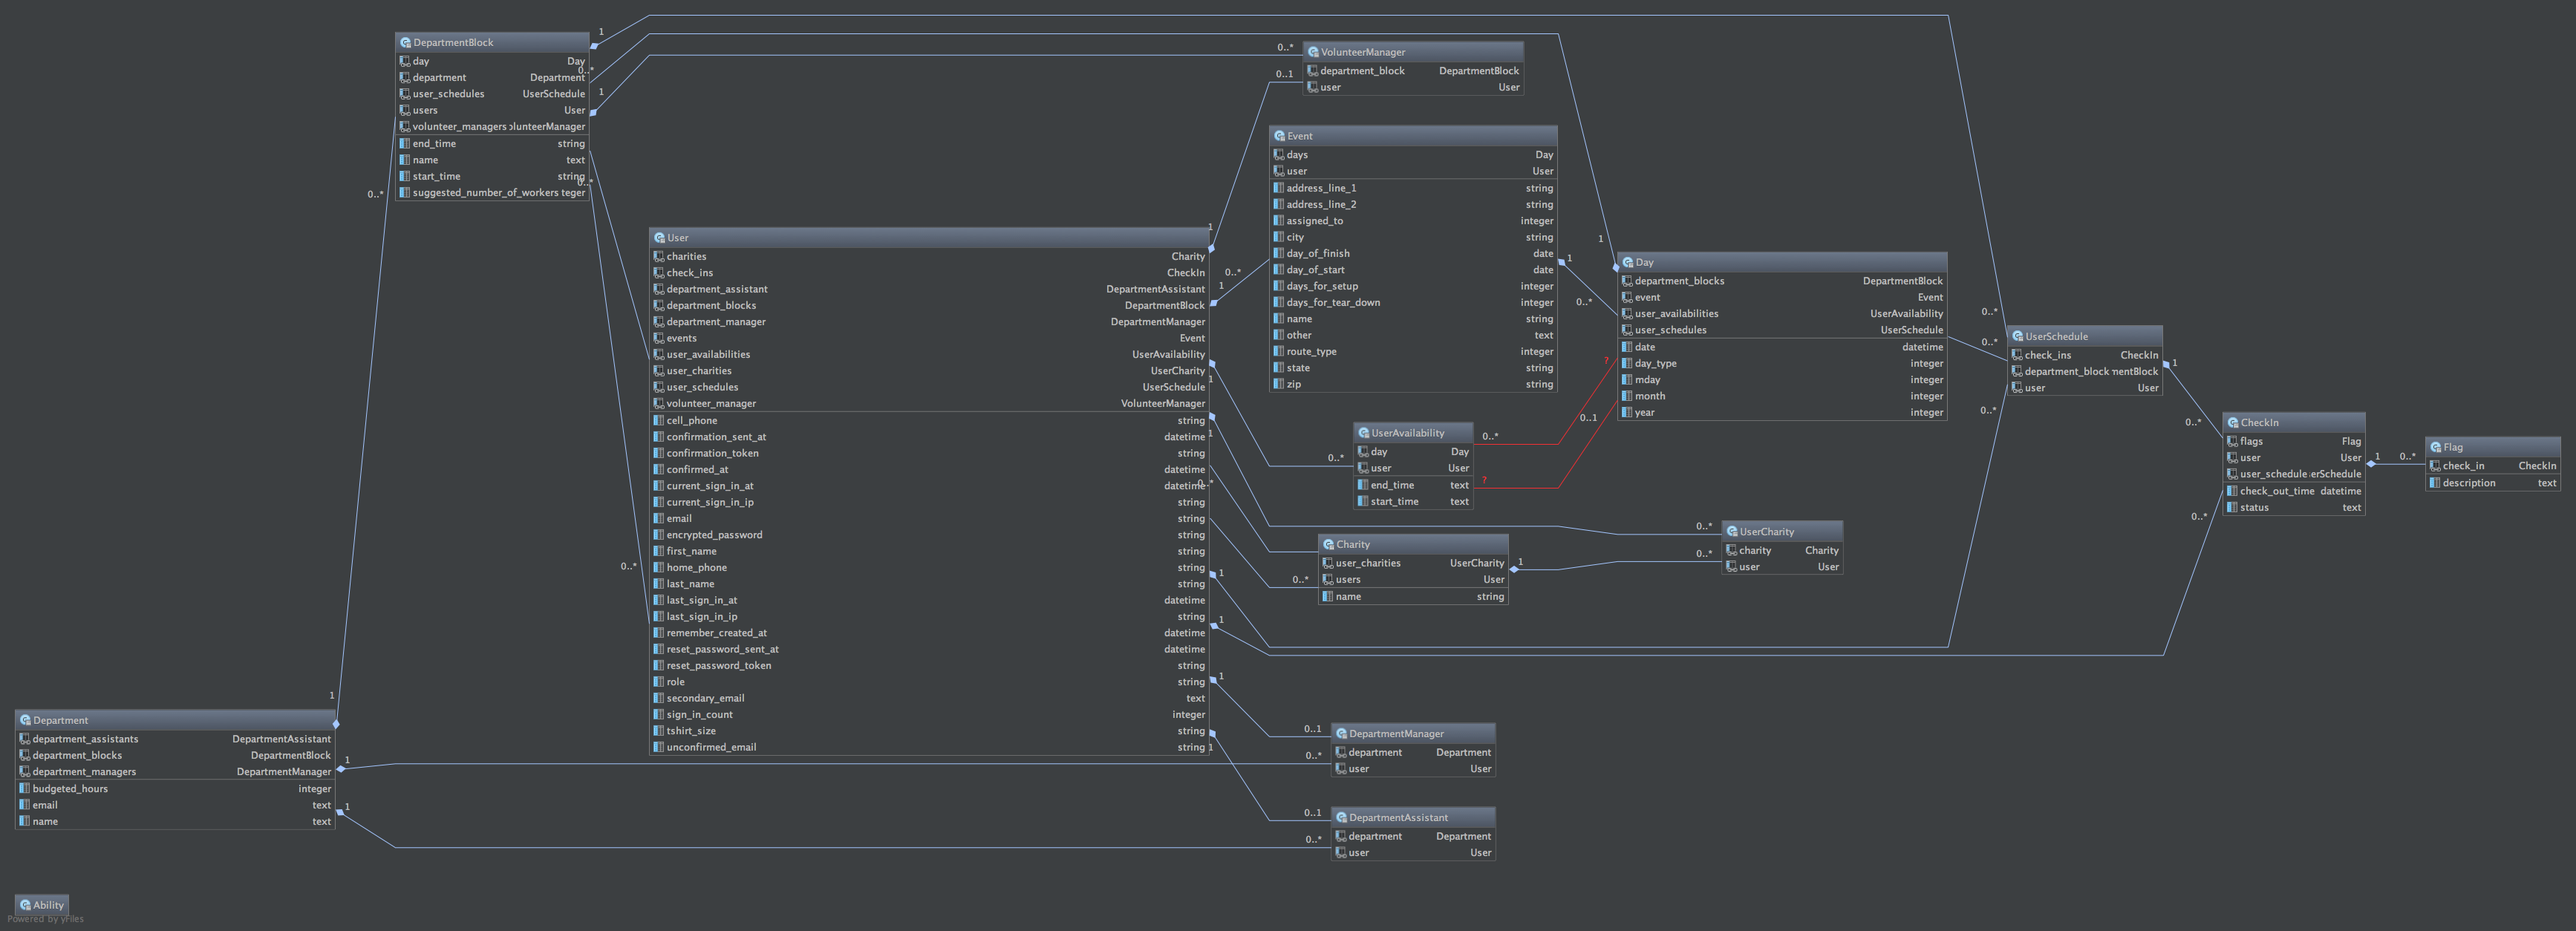
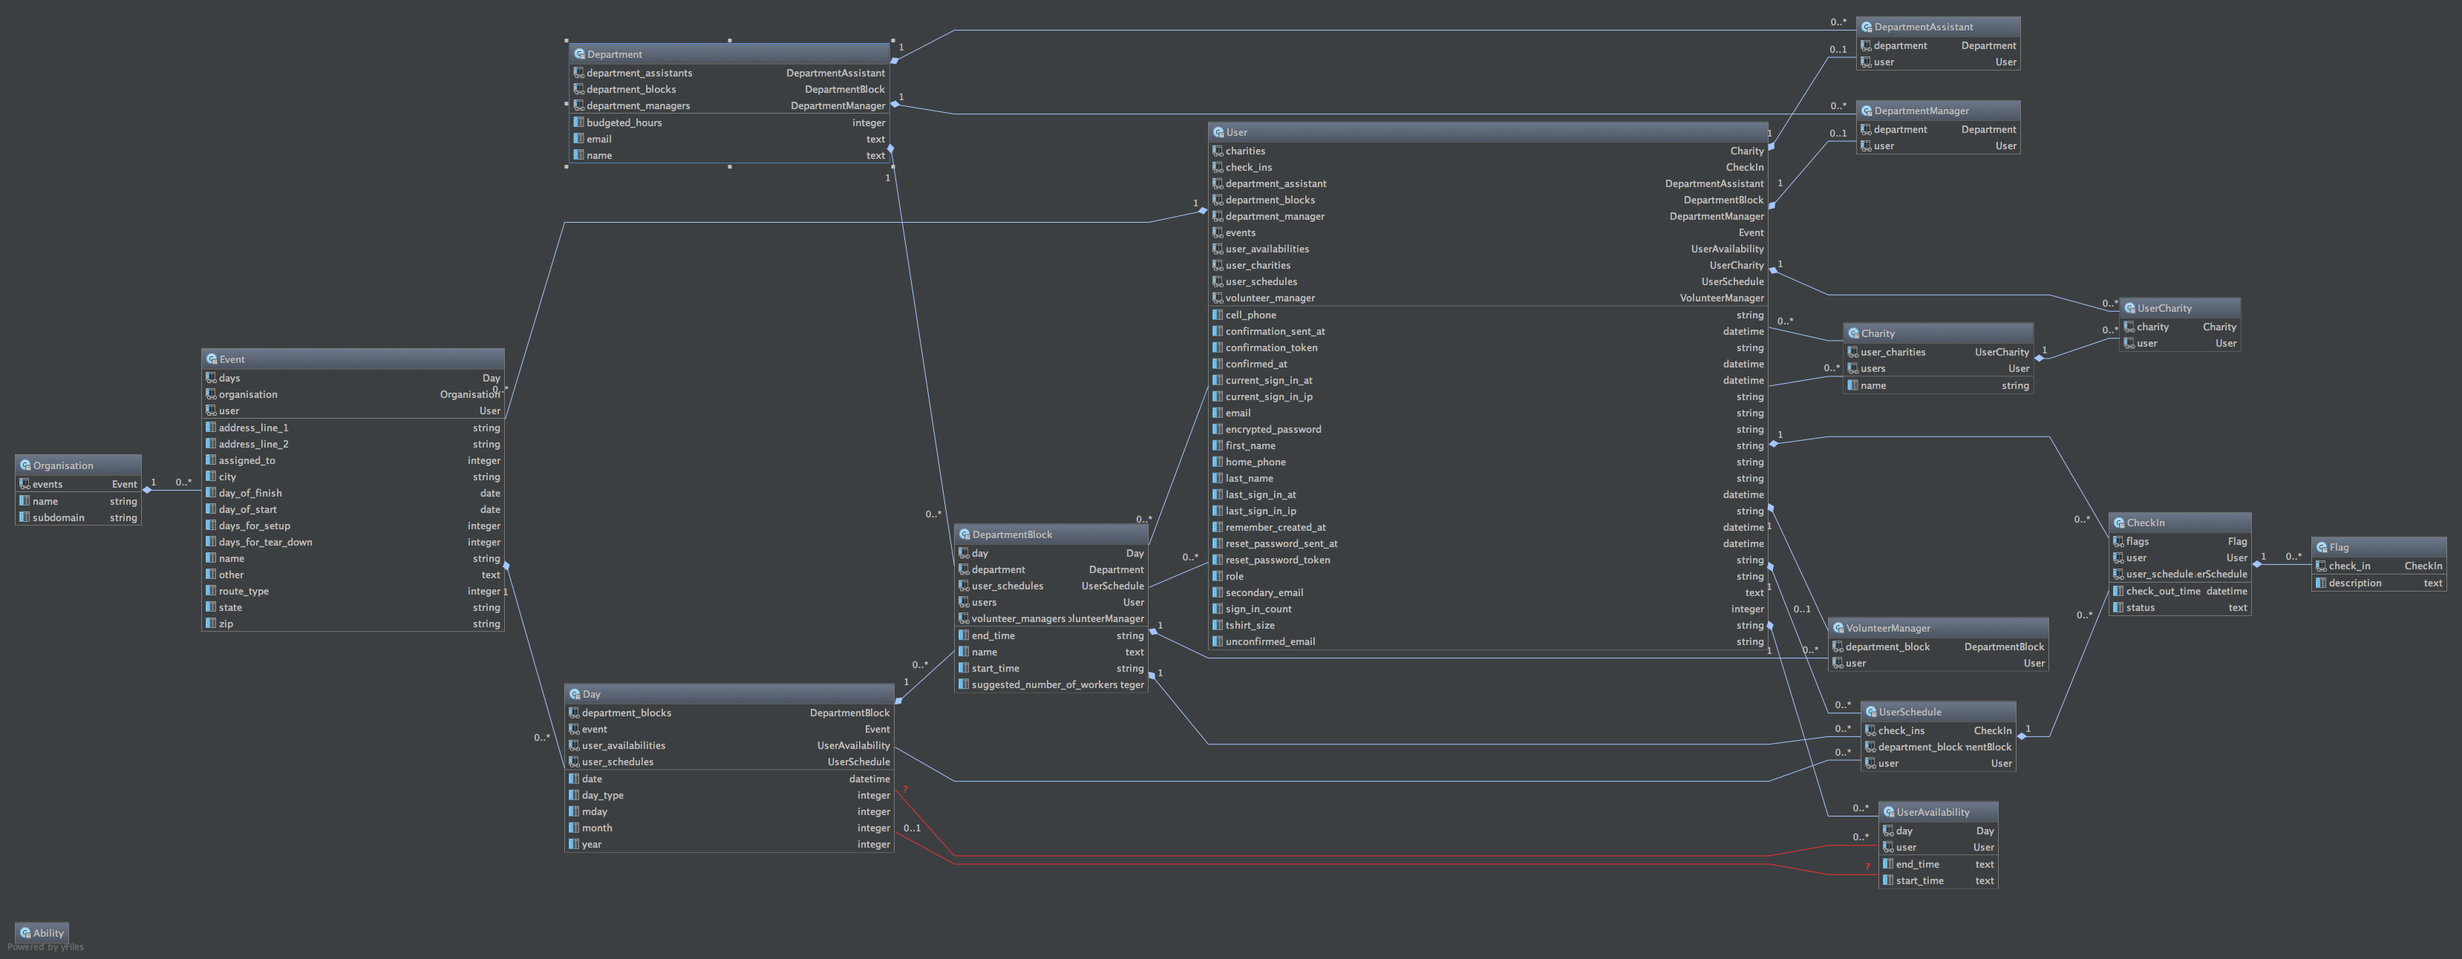
AG Added ability organization to create it's own subdomain

diff --git a/config/routes.rb b/config/routes.rb
@@ -1,5 +1,4 @@
 VolunteerTracker::Application.routes.draw do
-  root :to => 'dashboard#index'
 
   # PUBLIC FACING
   resources :departments, :only => [:index,:show]
@@ -28,6 +27,10 @@ VolunteerTracker::Application.routes.draw do
     resources :department_assistants
     resources :events
     resources :organisations
+  end
+
+  constraints(Subdomain) do
+    match '/' => 'organisations#show', as: :organisation_root
   end
 
   resources :dashboard, :only => [:index, :registration_complete]
@@ -72,63 +75,6 @@ VolunteerTracker::Application.routes.draw do
     match 'department_blocks/:id/copy/' => "department_blocks#copy"
     match 'departments/:id/export/:year/:month/:day' => "department_blocks#export"
     match 'departments/:id/schedule/:year/:month/:day' => "departments#schedule"
-    
   end
-
-  # The priority is based upon order of creation:
-  # first created -> highest priority.
-
-  # Sample of regular route:
-  #   match 'products/:id' => 'catalog#view'
-  # Keep in mind you can assign values other than :controller and :action
-
-  # Sample of named route:
-  #   match 'products/:id/purchase' => 'catalog#purchase', :as => :purchase
-  # This route can be invoked with purchase_url(:id => product.id)
-
-  # Sample resource route (maps HTTP verbs to controller actions automatically):
-  #   resources :products
-
-  # Sample resource route with options:
-  #   resources :products do
-  #     member do
-  #       get 'short'
-  #       post 'toggle'
-  #     end
-  #
-  #     collection do
-  #       get 'sold'
-  #     end
-  #   end
-
-  # Sample resource route with sub-resources:
-  #   resources :products do
-  #     resources :comments, :sales
-  #     resource :seller
-  #   end
-
-  # Sample resource route with more complex sub-resources
-  #   resources :products do
-  #     resources :comments
-  #     resources :sales do
-  #       get 'recent', :on => :collection
-  #     end
-  #   end
-
-  # Sample resource route within a namespace:
-  #   namespace :admin do
-  #     # Directs /admin/products/* to Admin::ProductsController
-  #     # (app/controllers/admin/products_controller.rb)
-  #     resources :products
-  #   end
-
-  # You can have the root of your site routed with "root"
-  # just remember to delete public/index.html.
-  # root :to => 'welcome#index'
-
-  # See how all your routes lay out with "rake routes"
-
-  # This is a legacy wild controller route that's not recommended for RESTful applications.
-  # Note: This route will make all actions in every controller accessible via GET requests.
-  # match ':controller(/:action(/:id))(.:format)'
+  root :to => 'dashboard#index'
 end

diff --git a/app/helpers/url_helper.rb b/app/helpers/url_helper.rb
@@ -1,0 +1,15 @@
+module UrlHelper  
+  def with_subdomain(subdomain)  
+    subdomain = (subdomain || "")  
+    subdomain += "." unless subdomain.empty?  
+    [subdomain, request.domain].join
+  end  
+
+  def url_for(options = nil)  
+    if options.kind_of?(Hash) && options.has_key?(:subdomain)
+      options[:host] = with_subdomain(options.delete(:subdomain))
+      options[:port] = request.port_string.gsub(':','') unless request.port_string.empty?
+    end  
+    super  
+  end
+end

diff --git a/config/application.rb b/config/application.rb
@@ -16,7 +16,7 @@ module VolunteerTracker
     # -- all .rb files in that directory are automatically loaded.
 
     # Custom directories with classes and modules you want to be autoloadable.
-    # config.autoload_paths += %W(#{config.root}/extras)
+    config.autoload_paths += %W(#{config.root}/lib)
 
     # Only load the plugins named here, in the order given (default is alphabetical).
     # :all can be used as a placeholder for all plugins not explicitly named.

diff --git a/config/initializers/session_store.rb b/config/initializers/session_store.rb
@@ -1,6 +1,6 @@
 # Be sure to restart your server when you modify this file.
 
-VolunteerTracker::Application.config.session_store :cookie_store, key: '_volunteer_tracker_session'
+VolunteerTracker::Application.config.session_store :cookie_store, key: '_volunteer_tracker_session', :domain => :all
 
 # Use the database for sessions instead of the cookie-based default,
 # which shouldn't be used to store highly confidential information

diff --git a/app/models/organisation.rb b/app/models/organisation.rb
@@ -5,7 +5,8 @@ class Organisation < ActiveRecord::Base
 
   validates_format_of :subdomain, with: /^[a-z0-9_]+$/
   validates_length_of :subdomain, maximum: 32
-  validates_exclusion_of :subdomain, in: ['www', 'mail', 'ftp', 'api', 'admin']
+  validates_exclusion_of :subdomain, in: %w(www ftp mail pop smtp admin ssl sftp api staging)
+  
   validates :name, :subdomain, presence: true
   validates :subdomain, uniqueness: true
 end

diff --git a/app/controllers/application_controller.rb b/app/controllers/application_controller.rb
@@ -1,7 +1,13 @@
 class ApplicationController < ActionController::Base
+  include UrlHelper
 	protect_from_forgery
 
 	def after_sign_in_path_for(resource)
 	  resource.sign_in_count <= 1 ? '/dashboard/user_availabilities' : root_path
 	end
+
+  def current_organisation
+    @organisation ||= Organisation.find_by_subdomain!(request.subdomain.to_s.downcase)
+  end
+
 end

diff --git a/lib/subdomain.rb b/lib/subdomain.rb
@@ -1,0 +1,7 @@
+class Subdomain
+  IGNORE_SUBDOMAINS = %w(www api)
+
+  def self.matches?(request)
+    request.subdomain.present? && !IGNORE_SUBDOMAINS.include?(request.subdomain)
+  end
+end

diff --git a/app/controllers/organisations_controller.rb b/app/controllers/organisations_controller.rb
@@ -1,0 +1,7 @@
+class OrganisationsController < ApplicationController
+  before_filter :authenticate_user!
+  before_filter :current_organisation
+
+  def show
+  end
+end

diff --git a/config/configatron/development.rb b/config/configatron/development.rb
@@ -1,1 +1,1 @@
-configatron.host = 'localhost:3000'
+configatron.host = 'lvh.me:3000'

diff --git a/config/configatron/staging.rb b/config/configatron/staging.rb
@@ -1,0 +1,1 @@
+configatron.host = 'volunteer.23stages.com'
